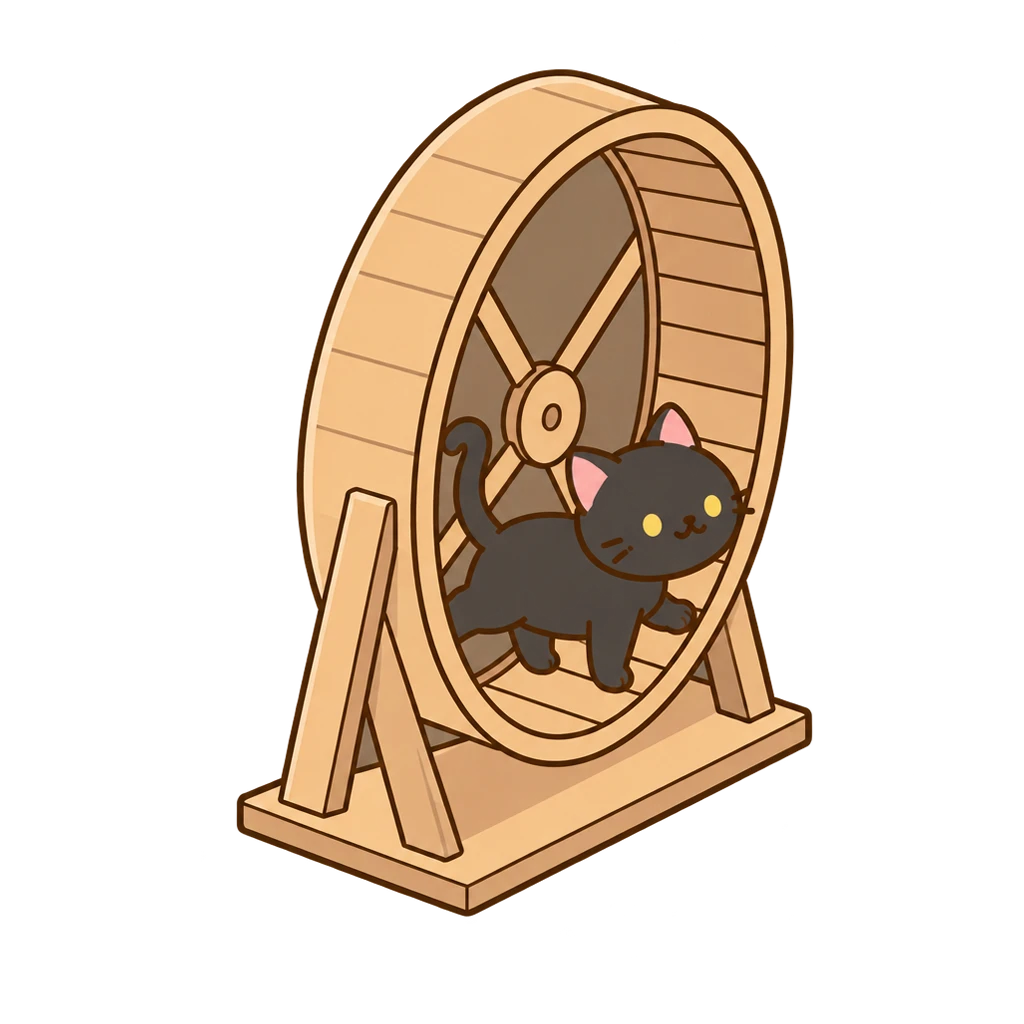
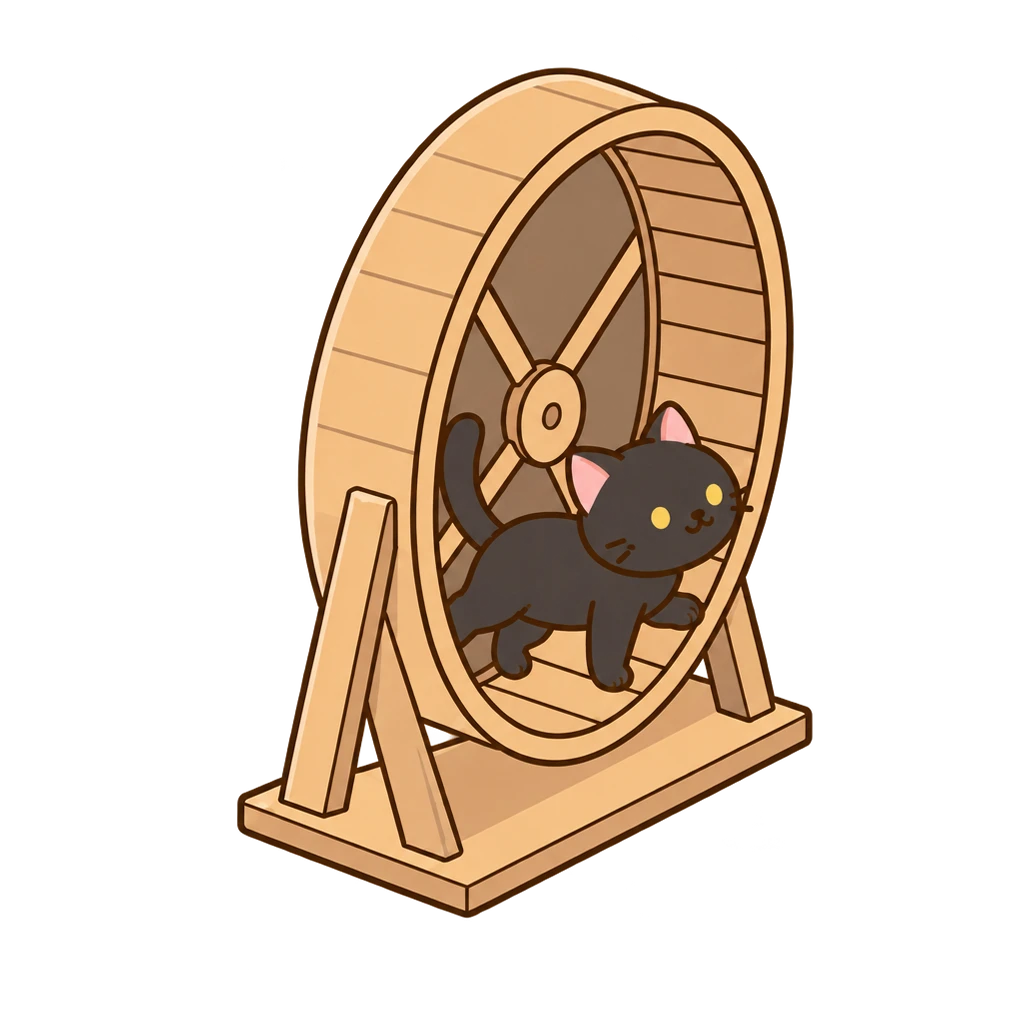
fix: 캣휠 고양이 6마리 — 단추 걸음 기준으로 다시
- 나비 · 물감 · 먹물 · 깨비 · 두부 · 구름 캣휠 2장씩, 단추 캣휠 그림을 참조로 털만 바꿔 다시 생성
- 캣휠 기준 그림을 단추 것으로 교체 (refs)

diff --git a/scripts/cat-art/refs/README.md b/scripts/cat-art/refs/README.md
@@ -16,7 +16,7 @@
 | `bg-v2.webp` | `art/raw/v2/house/bg-day.png` (고른 후보 b2 — b 의 지붕 · 방만 고침) | `ref-bg-v2` | 넣음 |
 | `sheet-v2-<id>.webp` (7장) | `art/raw/v2/cats/<id>/sheet.png` | `ref-sheet-v2-<id>` | 넣음 |
 | `obj-v2-<물건>.webp` (6장: bowl · cushion · box · ball · tower · wheel) | 그릇 · 방석 · 공 · 캣타워는 `art/raw/v2/house/<물건>-empty.png` (나비 합친 그림에서 고양이를 지운 것 — 앱에 쓰는 빈 그림), 상자 · 캣휠은 `<물건>.png` | `ref-obj-v2-<물건>` | 넣음 |
-| `with-<물건>[-n]-nabi.webp` (8장) | `art/raw/v2/cats/nabi/with-*.png` | `ref-with-<물건>[-n]` | 넣음 — 새 고양이의 합친 그림 첫 참조 (공 · 캣휠은 고친 뒤 판) |
+| `with-<물건>[-n]-nabi.webp` (8장) | `art/raw/v2/cats/nabi/with-*.png` | `ref-with-<물건>[-n]` | 넣음 — 새 고양이의 합친 그림 첫 참조 (공 · 캣휠은 고친 뒤 판). **캣휠 2장은 단추 것** (`with-wheel-{1,2}-danchu.webp`, 2026-10-15 고객: 단추 걸음이 가장 자연스러움 — 다른 고양이 캣휠은 이 그림을 참조로 털만 바꿈) |
 
 - 넣을 때 `bg-hanok.webp` · `sheet-<id>.webp`(1판)는 지우지 않는다 (1판 기록). 2판이 확정되면 `references` 에서 `ref-bg-hanok` 만 남기고 정리할지 메인이 판단.
 - 투명 그림(물건 · 합친 그림)은 WebP 알파 무손실로.
